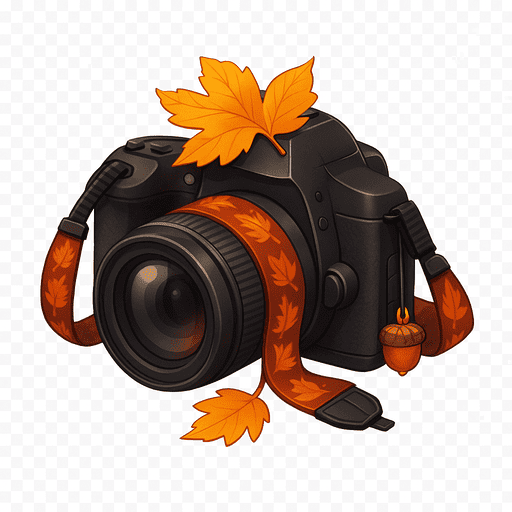
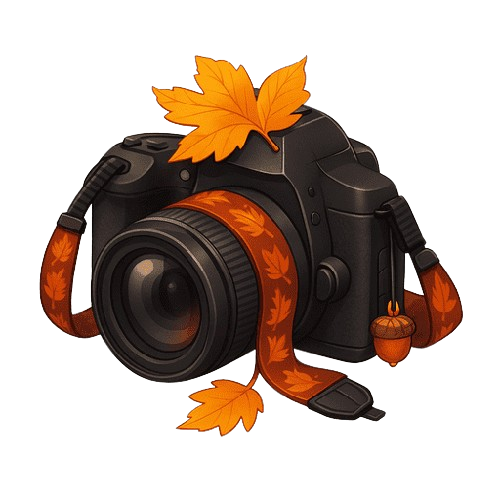
.

diff --git a/components/DraggableCards.tsx b/components/DraggableCards.tsx
@@ -8,15 +8,23 @@ import Image from "next/image";
 import { FormModal } from "./FormModal";
 import { photosData } from "@/constants/photosData";
 import { useTranslations } from "next-intl";
+import { useTheme } from "next-themes";
+import { CAMERA_ASSETS } from "@/constants/assetsData";
+
+const FALLBACK = "summer";
 
 export function DraggableCards() {
   const t = useTranslations("HomePage.memoriesSection")
+  const { theme } = useTheme();
+  // avoid hydration mismatch
 
+  const season = theme ? theme : FALLBACK;
+   const cameraImage = CAMERA_ASSETS[season] ?? CAMERA_ASSETS[FALLBACK];
   return (
     <DraggableCardContainer className=" pt-12  relative flex min-h-[700px] w-full items-center justify-center overflow-clip">
-      <div className="flex group flex-col gap-8 mx-4 px-4 max-w-2xl bg-slate-100 py-4 shadow-lg rounded-2xl items-center">
-        <Image src={"/images/camera/winter-camera.png"} alt="camera" width={300} height={300}/>
-        <p className="text-gradient-accent text-4xl text-center font-semibold max-w-md">
+      <div className="flex group flex-col gap-2 mx-4 p-4 lg:p-8 max-w-2xl bg-slate-100  shadow-lg rounded-2xl items-center">
+        <Image src={cameraImage} alt="camera" width={300} height={300}/>
+        <p className="text-gradient-accent text-4xl mb-4 text-center font-semibold max-w-md">
          {t("title")}
         </p>
         <FormModal />

diff --git a/constants/assetsData.ts b/constants/assetsData.ts
@@ -31,3 +31,10 @@ export const SEASON_ICONS: Record<string, string> = {
     autumn: "/svg/autumn-leaf.svg",
     winter: "/svg/snowflake-winter.svg",
   };
+
+  export const CAMERA_ASSETS: Record<string, string> = {
+    spring: "/images/camera/spring-camera.png",
+    summer: "/images/camera/summer-camera.png",
+    autumn: "/images/camera/autumn-camera.png",
+    winter: "/images/camera/winter-camera.png",
+  };
